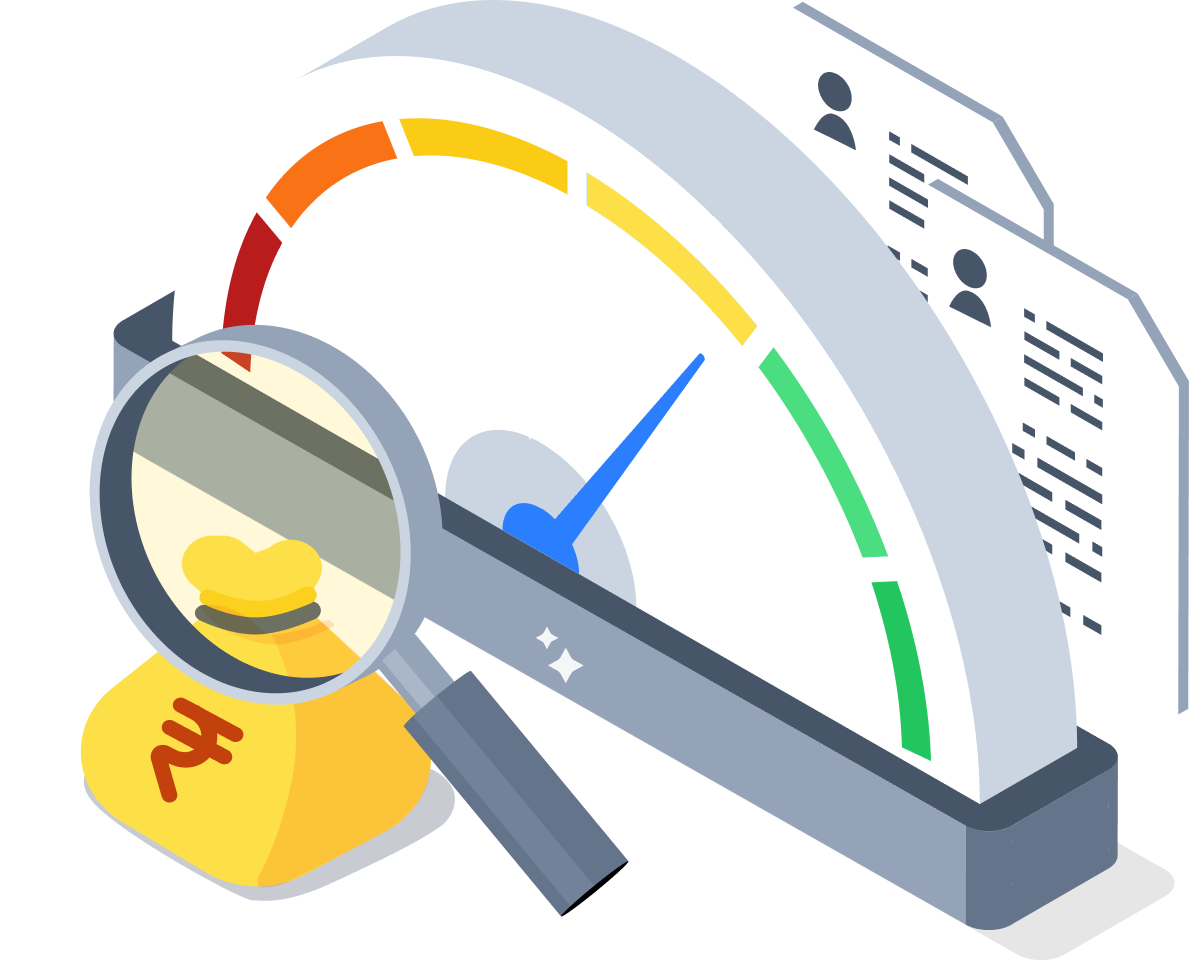
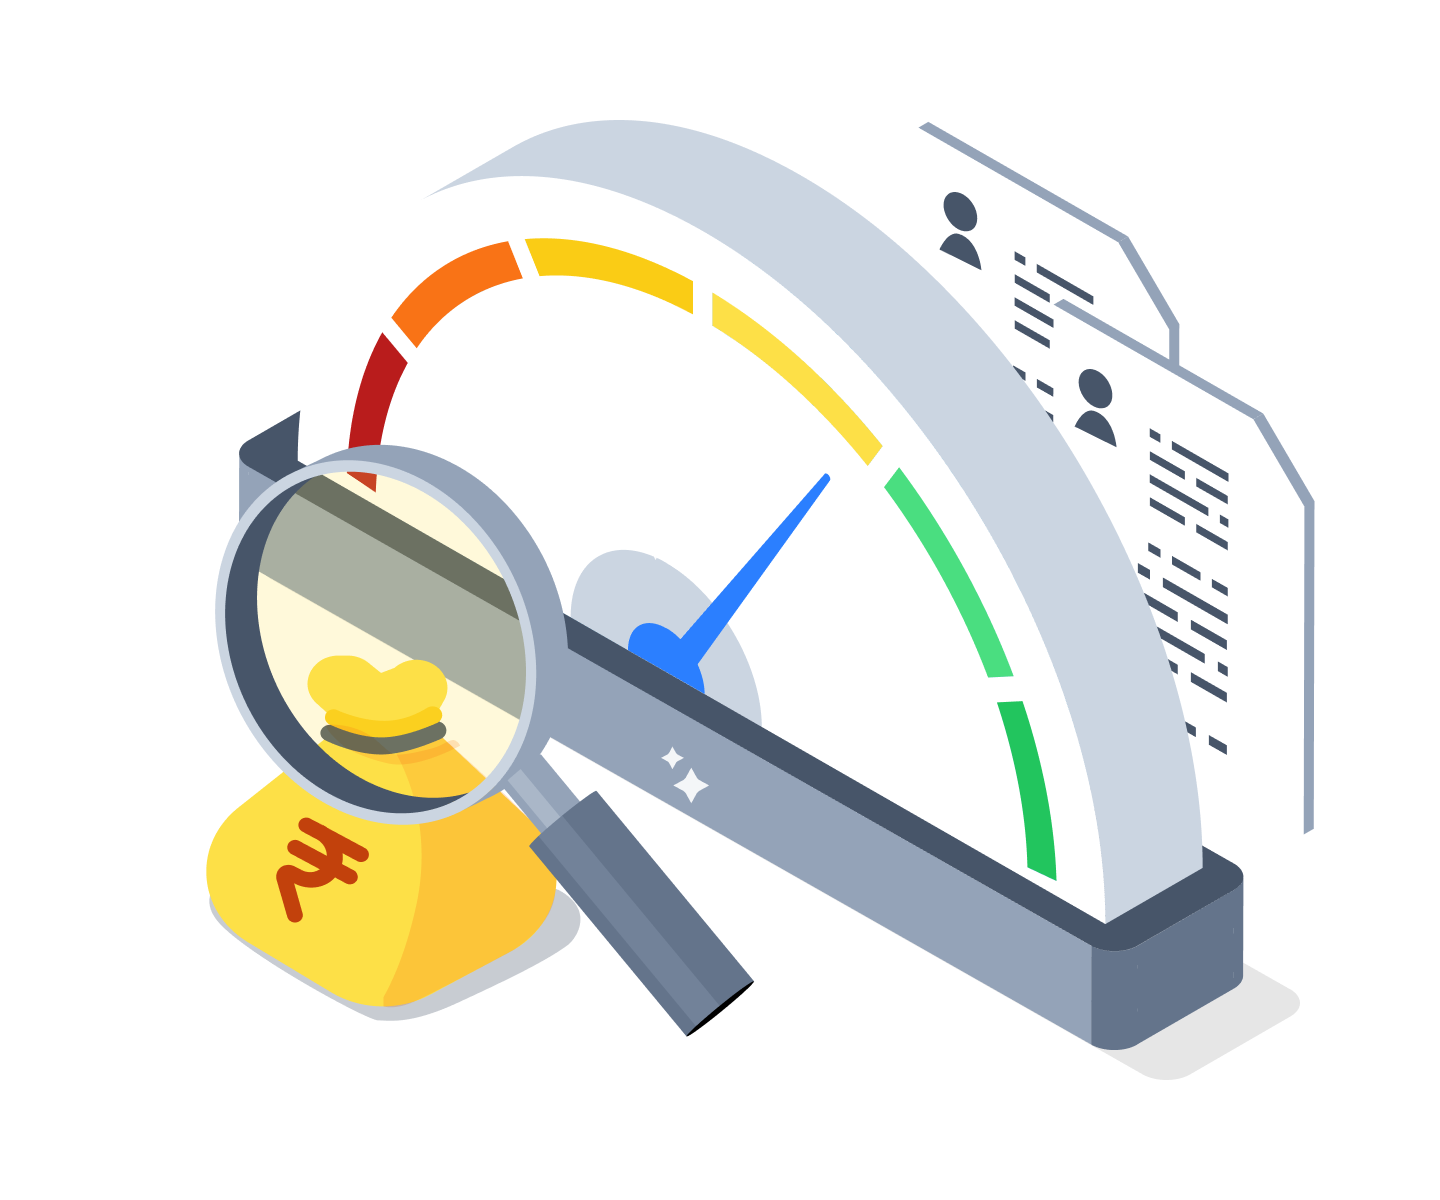
migrate svg to png in features

diff --git a/components/sections/Features.tsx b/components/sections/Features.tsx
@@ -21,7 +21,7 @@ const Features = () => {
             <figure>
               <Image
                 className="size-[160px] md:size-[240px] lg:size-[320px]"
-                src="/home.svg"
+                src="/home.png"
                 width={400}
                 height={400}
                 alt="Home"
@@ -43,8 +43,8 @@ const Features = () => {
           <article className="flex flex-col md:flex-row-reverse items-center justify-between gap-5">
             <figure>
               <Image
-                className="size-[160px] md:size-[240px] lg:size-[320px]"
-                src="/credit.svg"
+                className="size-[160px] md:size-[240px] lg:size-[320px] md:p-2"
+                src="/credit.png"
                 width={400}
                 height={400}
                 alt="Credit card"
@@ -78,7 +78,7 @@ const Features = () => {
             <figure>
               <Image
                 className="size-[160px] md:size-[240px] lg:size-[320px]"
-                src="/vault.svg"
+                src="/vault.png"
                 width={400}
                 height={400}
                 alt="Vault"
@@ -102,7 +102,7 @@ const Features = () => {
             <figure>
               <Image
                 className="size-[160px] md:size-[240px] lg:size-[320px]"
-                src="/cibil.svg"
+                src="/cibil.png"
                 width={400}
                 height={400}
                 alt="Credit report"

diff --git a/imporvements.md b/imporvements.md
@@ -4,7 +4,7 @@
    ~~3. Text changes - “Contact Us”, “Terms of Use”, “Privacy Policy”~~
 2. QR code has sharp edges - Clip the content add boreder radius
 3. Add left chat (middle of Husband & Wife) and right chat (middle of Son & Grandpa) - to be slightly bigger in Mob add copy of existing video as hereo anime mob
-4. Update new features assets as png (import 4x)
-5. Add mobile view video in nest section - loop
+   ~~4. Update new features assets as png (import 4x)~~
+4. ~~Add mobile view video in nest section - loop~~
    ~~7. For mobile pages - path should be mobile/xyz instead of mobile-xyz~~
-6. When android/iOS links are not added(empty), show ‘Launching soon’ and Hide QR code
+5. When android/iOS links are not added(empty), show ‘Launching soon’ and Hide QR code
